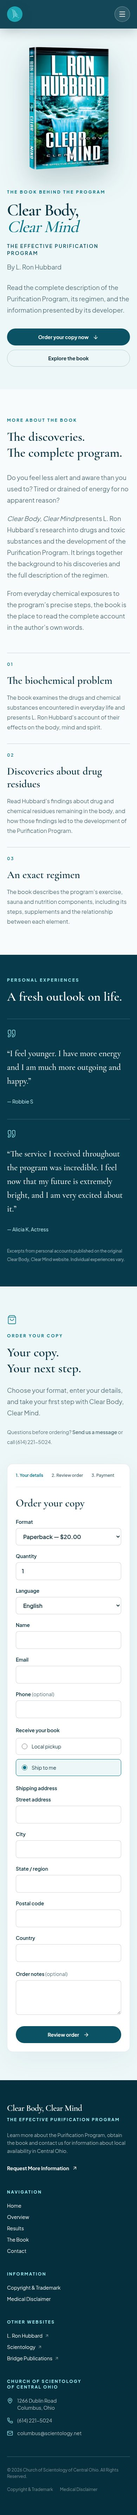
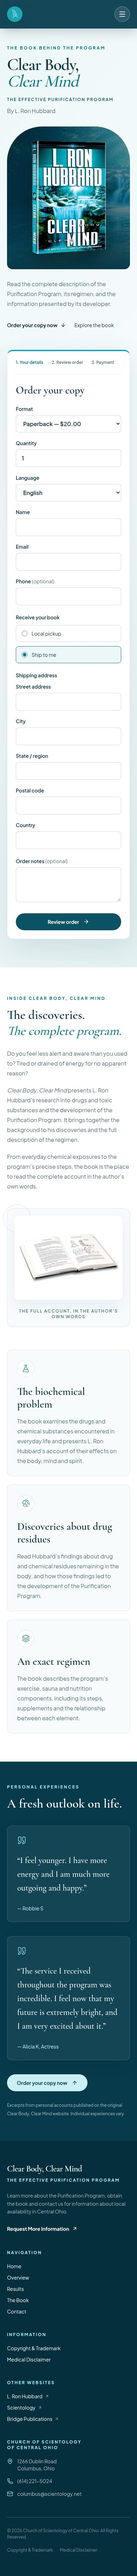
Bring Book checkout to the top and enrich the visual flow

diff --git a/components/book/BookOverview.tsx b/components/book/BookOverview.tsx
@@ -1,21 +1,34 @@
+import Image from "next/image";
+import { FlaskConical, Fingerprint, Layers3 } from "lucide-react";
+
 const discoveries = [
-  { number: "01", title: "The biochemical problem", text: "The book examines the drugs and chemical substances encountered in everyday life and presents L. Ron Hubbard’s account of their effects on the body, mind and spirit." },
-  { number: "02", title: "Discoveries about drug residues", text: "Read Hubbard’s findings about drug and chemical residues remaining in the body, and how those findings led to the development of the Purification Program." },
-  { number: "03", title: "An exact regimen", text: "The book describes the program’s exercise, sauna and nutrition components, including its steps, supplements and the relationship between each element." },
+  { icon: FlaskConical, title: "The biochemical problem", text: "The book examines the drugs and chemical substances encountered in everyday life and presents L. Ron Hubbard’s account of their effects on the body, mind and spirit." },
+  { icon: Fingerprint, title: "Discoveries about drug residues", text: "Read Hubbard’s findings about drug and chemical residues remaining in the body, and how those findings led to the development of the Purification Program." },
+  { icon: Layers3, title: "An exact regimen", text: "The book describes the program’s exercise, sauna and nutrition components, including its steps, supplements and the relationship between each element." },
 ];
 
 export default function BookOverview() {
   return (
-    <section id="about-the-book" className="mx-auto max-w-[1440px] scroll-mt-8 px-5 py-20 sm:px-8 lg:px-12 lg:py-28">
-      <div className="grid gap-8 lg:grid-cols-2 lg:gap-20">
-        <div><p className="text-xs font-bold uppercase tracking-[0.24em] text-[#087487]">More about the book</p><h2 className="mt-4 font-display text-4xl font-semibold leading-tight text-[#0c3341] sm:text-5xl">The discoveries.<br />The complete program.</h2></div>
-        <div className="space-y-5 text-lg leading-8 text-[#56717a]">
-          <p>Do you feel less alert and aware than you used to? Tired or drained of energy for no apparent reason?</p>
-          <p><em>Clear Body, Clear Mind</em> presents L. Ron Hubbard’s research into drugs and toxic substances and the development of the Purification Program. It brings together the background to his discoveries and the full description of the regimen.</p>
-          <p>From everyday chemical exposures to the program’s precise steps, the book is the place to read the complete account in the author’s own words.</p>
+    <section id="about-the-book" className="scroll-mt-8 bg-white px-5 py-20 sm:px-8 lg:px-12 lg:py-28">
+      <div className="mx-auto max-w-[1440px]">
+        <div className="grid items-center gap-12 lg:grid-cols-2 lg:gap-20">
+          <div>
+            <p className="text-xs font-bold uppercase tracking-[0.24em] text-[#087487]">Inside Clear Body, Clear Mind</p>
+            <h2 className="mt-4 font-display text-4xl font-semibold leading-tight text-[#0c3341] sm:text-5xl">The discoveries.<br /><span className="font-medium italic text-[#087487]">The complete program.</span></h2>
+            <div className="mt-7 space-y-5 text-base leading-7 text-[#56717a] sm:text-lg sm:leading-8">
+              <p>Do you feel less alert and aware than you used to? Tired or drained of energy for no apparent reason?</p>
+              <p><em>Clear Body, Clear Mind</em> presents L. Ron Hubbard’s research into drugs and toxic substances and the development of the Purification Program. It brings together the background to his discoveries and the full description of the regimen.</p>
+              <p>From everyday chemical exposures to the program’s precise steps, the book is the place to read the complete account in the author’s own words.</p>
+            </div>
+          </div>
+          <figure className="relative rounded-2xl border border-[#0c3341]/10 bg-[#f7fbfc] p-5 sm:p-10">
+            <span aria-hidden="true" className="absolute -left-3 -top-3 size-20 rounded-full border border-[#1da6b5]/25" />
+            <div className="relative rounded-xl bg-white px-2 py-12 shadow-[0_15px_40px_rgba(10,64,78,0.07)] sm:px-5"><Image src="/images/book/open-book.jpg" alt="An open copy of Clear Body, Clear Mind, showing printed text and illustrations" width={645} height={314} sizes="(max-width: 1023px) 90vw, 42vw" className="h-auto w-full" /></div>
+            <figcaption className="mt-6 text-center text-xs font-semibold uppercase tracking-[0.15em] text-[#56717a]">The full account, in the author’s own words</figcaption>
+          </figure>
         </div>
+        <div className="mt-16 grid gap-6 md:grid-cols-3">{discoveries.map((item) => {const Icon = item.icon;return <article key={item.title} className="rounded-xl border border-[#0c3341]/10 bg-[#f7fbfc] p-7 sm:p-8"><span className="flex size-12 items-center justify-center rounded-full border border-[#087487]/15 bg-white text-[#087487]"><Icon size={23} strokeWidth={1.4} /></span><h3 className="mt-6 font-display text-3xl font-semibold text-[#0c3341]">{item.title}</h3><p className="mt-4 text-base leading-7 text-[#56717a]">{item.text}</p></article>;})}</div>
       </div>
-      <div className="mt-14 grid gap-8 md:grid-cols-3">{discoveries.map((item) => <article key={item.number} className="border-t border-[#0c3341]/20 pt-6"><p className="text-xs font-semibold tracking-[0.2em] text-[#087487]">{item.number}</p><h3 className="mt-5 font-display text-3xl font-semibold text-[#0c3341]">{item.title}</h3><p className="mt-4 text-base leading-7 text-[#56717a]">{item.text}</p></article>)}</div>
     </section>
   );
 }

diff --git a/components/book/BookHero.tsx b/components/book/BookHero.tsx
@@ -3,23 +3,21 @@ import { ArrowDown } from "lucide-react";
 
 export default function BookHero() {
   return (
-    <section className="relative overflow-hidden bg-[#edf7f8] pb-16 pt-32 sm:pb-24 lg:pt-44">
-      <div className="mx-auto grid max-w-[1440px] items-center gap-12 px-5 sm:px-8 lg:grid-cols-[0.9fr_1.1fr] lg:gap-24 lg:px-12">
-        <div className="relative mx-auto w-full max-w-[260px] sm:max-w-[330px] lg:max-w-[390px]">
-          <Image src="/images/book/clear-body-clear-mind-book.webp" alt="Clear Body, Clear Mind by L. Ron Hubbard" width={900} height={1280} preload sizes="(max-width: 639px) 70vw, (max-width: 1023px) 330px, 390px" className="h-auto w-full drop-shadow-[0_30px_40px_rgba(5,48,61,0.22)]" />
-        </div>
-        <div className="max-w-2xl">
-          <p className="text-xs font-bold uppercase tracking-[0.25em] text-[#087487]">The book behind the program</p>
-          <h1 className="mt-5 font-display text-5xl font-semibold leading-[0.98] tracking-[-0.03em] text-[#0c3341] sm:text-6xl lg:text-7xl">Clear Body,<br /><span className="font-medium italic text-[#087487]">Clear Mind</span></h1>
-          <p className="mt-5 text-sm font-semibold uppercase tracking-[0.16em] text-[#0c5265]">The Effective Purification Program</p>
-          <p className="mt-4 text-lg text-[#56717a]">By L. Ron Hubbard</p>
-          <p className="mt-7 text-lg leading-8 text-[#56717a]">Read the complete description of the Purification Program, its regimen, and the information presented by its developer.</p>
-          <div className="mt-9 flex flex-col gap-3 sm:flex-row">
-            <a href="#order" className="inline-flex min-h-12 items-center justify-center gap-3 rounded-full bg-[#0c5265] px-7 text-sm font-bold !text-white transition hover:bg-[#087487]">Order your copy now <ArrowDown size={17} /></a>
-            <a href="#about-the-book" className="inline-flex min-h-12 items-center justify-center rounded-full border border-[#0c5265]/25 px-7 text-sm font-bold text-[#0c5265] transition hover:bg-white">Explore the book</a>
-          </div>
-        </div>
+    <div>
+      <p className="text-xs font-bold uppercase tracking-[0.25em] text-[#087487]">The book behind the program</p>
+      <h1 className="mt-4 font-display text-5xl font-semibold leading-[0.98] tracking-[-0.03em] text-[#0c3341] sm:text-6xl">Clear Body,<br /><span className="font-medium italic text-[#087487]">Clear Mind</span></h1>
+      <p className="mt-5 text-xs font-semibold uppercase tracking-[0.16em] text-[#0c5265]">The Effective Purification Program</p>
+      <p className="mt-3 text-base text-[#56717a]">By L. Ron Hubbard</p>
+      <div className="relative isolate mt-8 overflow-hidden rounded-t-[100px] rounded-b-2xl bg-[#073b4b] px-8 py-9 sm:rounded-t-[140px]">
+        <Image src="/images/hero/waterfall-hero.png" alt="" fill sizes="(max-width: 1023px) 100vw, 40vw" className="-z-10 object-cover opacity-40" />
+        <div className="pointer-events-none absolute inset-0 -z-10 bg-gradient-to-t from-[#073b4b] via-transparent to-transparent" />
+        <Image src="/images/book/clear-body-clear-mind-book.webp" alt="Clear Body, Clear Mind by L. Ron Hubbard" width={900} height={1280} preload sizes="(max-width: 639px) 60vw, 290px" className="mx-auto h-auto w-full max-w-[240px] drop-shadow-[0_24px_28px_rgba(0,0,0,0.4)] sm:max-w-[290px]" />
       </div>
-    </section>
+      <p className="mt-7 text-base leading-7 text-[#56717a]">Read the complete description of the Purification Program, its regimen, and the information presented by its developer.</p>
+      <div className="mt-6 flex flex-wrap gap-x-6 gap-y-3">
+        <a href="#order" className="inline-flex min-h-11 items-center gap-2 text-sm font-bold text-[#0c5265]">Order your copy now <ArrowDown size={16} /></a>
+        <a href="#about-the-book" className="inline-flex min-h-11 items-center text-sm text-[#56717a] underline underline-offset-4">Explore the book</a>
+      </div>
+    </div>
   );
 }

diff --git a/components/book/BookOrder.tsx b/components/book/BookOrder.tsx
@@ -1,8 +1,8 @@
 "use client";
 
 import { useEffect, useRef, useState, type FormEvent } from "react";
-import Link from "next/link";
-import { ArrowRight, ShoppingBag } from "lucide-react";
+import BookHero from "@/components/book/BookHero";
+import { ArrowRight } from "lucide-react";
 
 const inputClass = "mt-2 w-full rounded-lg border border-[#0c3341]/20 bg-white px-4 py-3 text-base text-[#102f3a] outline-none focus:border-[#087487] focus:ring-2 focus:ring-[#087487]/20";
 // Reference-site display prices; confirm local pricing before enabling payment.
@@ -41,16 +41,10 @@ export default function BookOrder() {
   }
 
   return (
-    <section id="order" className="scroll-mt-8 bg-[#edf7f8] px-5 py-20 sm:px-8 lg:px-12 lg:py-28" aria-labelledby="order-heading">
-      <div className="mx-auto grid max-w-[1440px] gap-12 lg:grid-cols-[0.7fr_1.3fr] lg:gap-20">
-        <div>
-          <ShoppingBag size={28} strokeWidth={1.4} className="text-[#087487]" />
-          <p className="mt-6 text-xs font-bold uppercase tracking-[0.24em] text-[#087487]">Order your copy</p>
-          <h2 id="order-heading" className="mt-4 font-display text-4xl font-semibold leading-tight text-[#0c3341] sm:text-5xl">Your copy.<br />Your next step.</h2>
-          <p className="mt-6 max-w-md text-lg leading-8 text-[#56717a]">Choose your format, enter your details, and take your first step with Clear Body, Clear Mind.</p>
-          <p className="mt-6 max-w-md text-sm leading-7 text-[#56717a]">Questions before ordering? <Link href="/contact" className="font-semibold text-[#087487] underline underline-offset-4">Send us a message</Link> or call <a href="tel:+16142215024" className="whitespace-nowrap text-[#087487] underline underline-offset-4">(614) 221-5024</a>.</p>
-        </div>
-        <div className="rounded-2xl border border-[#0c3341]/10 bg-white p-6 shadow-[0_20px_70px_rgba(10,64,78,0.06)] sm:p-10">
+    <section className="bg-[linear-gradient(135deg,#edf7f8_0%,#f7fbfc_55%,#e4f1f3_100%)] px-5 pb-20 pt-32 sm:px-8 lg:px-12 lg:pb-28 lg:pt-36">
+      <div className="mx-auto grid max-w-[1440px] gap-12 lg:grid-cols-[0.9fr_1.1fr] lg:items-start lg:gap-20">
+        <BookHero />
+        <div id="order" className="scroll-mt-8 rounded-2xl border border-[#0c3341]/10 border-t-4 border-t-[#1da6b5] bg-white p-6 shadow-[0_24px_80px_rgba(10,64,78,0.12)] sm:p-8 xl:p-10">
           <ol aria-label="Order steps" className="mb-7 flex flex-wrap gap-x-6 gap-y-3 border-b border-[#0c3341]/10 pb-6 text-xs font-semibold text-[#56717a]">
             <li aria-current={!review ? "step" : undefined} className={!review ? "text-[#087487]" : ""}>1. Your details</li>
             <li aria-current={review ? "step" : undefined} className={review ? "text-[#087487]" : ""}>2. Review order</li>

diff --git a/components/book/BookTestimonials.tsx b/components/book/BookTestimonials.tsx
@@ -1,4 +1,4 @@
-import { Quote } from "lucide-react";
+import { ArrowUp, Quote } from "lucide-react";
 
 // Exact short excerpts from clearbodyclearmind.com/shop/book.
 const testimonials = [
@@ -13,9 +13,10 @@ export default function BookTestimonials() {
         <p className="text-xs font-bold uppercase tracking-[0.24em] text-cyan-200">Personal experiences</p>
         <h2 id="book-testimonials-heading" className="mt-4 font-display text-4xl font-semibold leading-tight sm:text-5xl">A fresh outlook on life.</h2>
         <div className="mt-10 grid gap-10 md:grid-cols-2 md:gap-16">
-          {testimonials.map((item) => <figure key={item.name} className="border-t border-white/20 pt-7"><Quote size={26} strokeWidth={1.3} className="text-cyan-200" /><blockquote className="mt-6 font-display text-2xl leading-relaxed sm:text-3xl">“{item.quote}”</blockquote><figcaption className="mt-7 text-sm text-cyan-100">— {item.name}</figcaption></figure>)}
+          {testimonials.map((item) => <figure key={item.name} className="rounded-xl border border-white/15 bg-white/5 p-7 shadow-[0_15px_40px_rgba(0,0,0,0.08)] sm:p-9"><Quote size={26} strokeWidth={1.3} className="text-cyan-200" /><blockquote className="mt-6 font-display text-2xl leading-relaxed sm:text-3xl">“{item.quote}”</blockquote><figcaption className="mt-7 text-sm text-cyan-100">— {item.name}</figcaption></figure>)}
         </div>
-        <p className="mt-10 text-xs leading-6 text-white/65">Excerpts from personal accounts published on the original Clear Body, Clear Mind website. Individual experiences vary.</p>
+        <a href="#order" className="mt-10 inline-flex min-h-12 items-center gap-3 rounded-full bg-[#cceff5] px-7 text-sm font-bold !text-[#0b4353] transition hover:bg-white">Order your copy now <ArrowUp size={17} /></a>
+        <p className="mt-7 text-xs leading-6 text-white/65">Excerpts from personal accounts published on the original Clear Body, Clear Mind website. Individual experiences vary.</p>
       </div>
     </section>
   );

diff --git a/app/book/page.tsx b/app/book/page.tsx
@@ -1,5 +1,4 @@
 import type { Metadata } from "next";
-import BookHero from "@/components/book/BookHero";
 import BookOverview from "@/components/book/BookOverview";
 import BookTestimonials from "@/components/book/BookTestimonials";
 import BookOrder from "@/components/book/BookOrder";
@@ -12,5 +11,5 @@ export const metadata: Metadata = {
 };
 
 export default function BookPage() {
-  return <><Header /><main><BookHero /><BookOverview /><BookTestimonials /><BookOrder /></main><Footer /></>;
+  return <><Header /><main><BookOrder /><BookOverview /><BookTestimonials /></main><Footer /></>;
 }

diff --git a/docs/book-results-preview.md b/docs/book-results-preview.md
@@ -50,3 +50,9 @@ Production build, ESLint, TypeScript, and diff checks passed. Chromium verified 
 ## Latest Book refinement
 
 Address fields are visible by default (shipping selected) and retained as billing fields for pickup. Removed preview/setup banners from the product and order presentation. No card fields collect sensitive payment information; checkout will hand off to the selected processor once configured. Book blurbs also draw on the reference overview page for its discussion of Hubbard’s research and the exercise/sauna/nutrition regimen. These claims are attributed to the book rather than strengthened.
+
+## Purchase-first composition
+
+The Book page now starts with a single product/checkout composition: title, original book render over waterfall artwork, and product introduction on the left; the order form starts alongside it on the right at desktop widths. Mobile stacks product then form, with an order anchor to skip directly to the form. Below this come the book/discoveries section and then testimonials, with a return-to-order button. The discovery section includes a locally served open-book photograph and restrained line glyphs in dimensional cards. Testimonials use framed quote cards without invented portraits.
+
+New source asset: `public/images/book/open-book.jpg`, from https://clearbodyclearmind.com/img/common/cbcm-book-open.jpg (645 × 314), retrieved November 8, 2026. Used as actual book photography in the design draft, not a generated replacement.

diff --git a/docs/image-inventory.md b/docs/image-inventory.md
@@ -7,6 +7,7 @@ The supplied image files below were synced from the desktop project. Their origi
 | Branding | `public/logos/cbcm-waterfall.png` | Header and favicon. Keep. |
 | Waterfall | `public/images/hero/waterfall-hero.png` | Approved homepage hero and shared page headers. Keep. |
 | Book | `public/images/book/clear-body-clear-mind-book.webp`, `.jpg` | Book render on homepage and Book page. Keep original product artwork. |
+| Open book | `public/images/book/open-book.jpg` | Book page discovery section. Reference-site image: https://clearbodyclearmind.com/img/common/cbcm-book-open.jpg; retrieved November 8, 2026. |
 | Homepage overview | `public/images/hero/biochemical-problem.png` | Existing editorial illustration. Review with user. |
 | Program | `public/images/overview/` | Nine existing images covering program topics and waterfall. Review individually before replacement. |
 | Testimonials | `public/images/results/success-1.jpg`, `success-2.JPG`, `success-3.JPG` | Existing portraits; preserve. Confirm identity, permission, and exact source wording. Never replace attributed portraits with generated people. |
